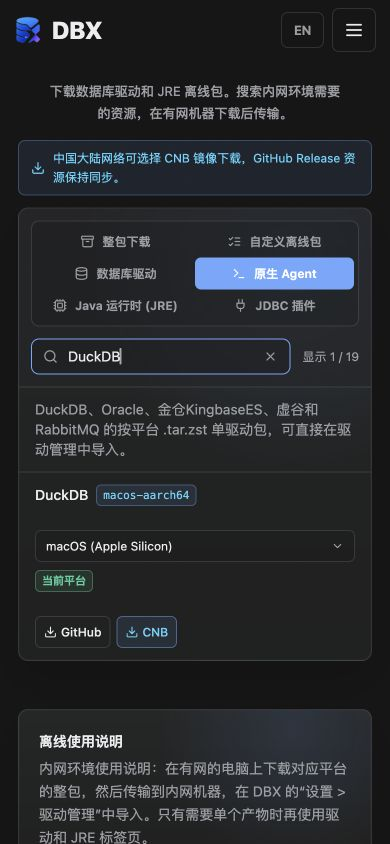
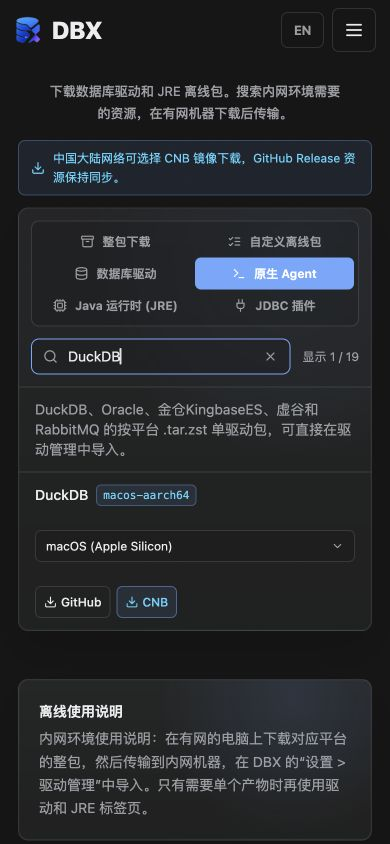
fix(docs): remove redundant current-platform badge from native agents

Changed region(s): [[0.0923, 0.8009, 0.9538, 1.0], [0.0923, 0.6777, 0.4615, 0.7701], [0.3077, 0.4005, 0.3385, 0.4313]]

diff --git a/docs/app/[lang]/drivers/DriversClient.tsx b/docs/app/[lang]/drivers/DriversClient.tsx
@@ -822,19 +822,16 @@ export function DriversClient({ initialCatalog, initialRegistry }: { initialCata
                               </div>
                             </td>
                             <td className="px-5 py-3 max-[760px]:col-span-2 max-[760px]:px-0 max-[760px]:pt-0">
-                              <div className="flex flex-wrap items-center gap-2">
-                                <LandingSelect
-                                  value={selectedAgent.platformKey}
-                                  options={group.options.map((option) => ({ value: option.platformKey, label: option.platformLabel }))}
-                                  onChange={(platformKey) => {
-                                    nativePlatformTouchedRef.current.add(group.key);
-                                    setSelectedNativePlatforms((current) => ({ ...current, [group.key]: platformKey }));
-                                  }}
-                                  ariaLabel={`${group.label}: ${t.platform}`}
-                                  className="min-w-[190px] max-[760px]:w-full"
-                                />
-                                {selectedAgent.platformKey === detectedPlatform && <span className="shrink-0 rounded-[5px] border border-landing-green/35 bg-landing-green/10 px-1.5 py-0.5 text-[11px] font-[650] text-landing-green">{t.currentPlatform}</span>}
-                              </div>
+                              <LandingSelect
+                                value={selectedAgent.platformKey}
+                                options={group.options.map((option) => ({ value: option.platformKey, label: option.platformLabel }))}
+                                onChange={(platformKey) => {
+                                  nativePlatformTouchedRef.current.add(group.key);
+                                  setSelectedNativePlatforms((current) => ({ ...current, [group.key]: platformKey }));
+                                }}
+                                ariaLabel={`${group.label}: ${t.platform}`}
+                                className="min-w-[190px] max-[760px]:w-full"
+                              />
                             </td>
                             <td className="px-5 py-3 text-xs text-landing-muted max-[760px]:hidden">{group.version}</td>
                             <td className="whitespace-nowrap px-5 py-3 text-right text-xs text-landing-muted max-[760px]:hidden">{formatSize(selectedAgent.info.size)}</td>
